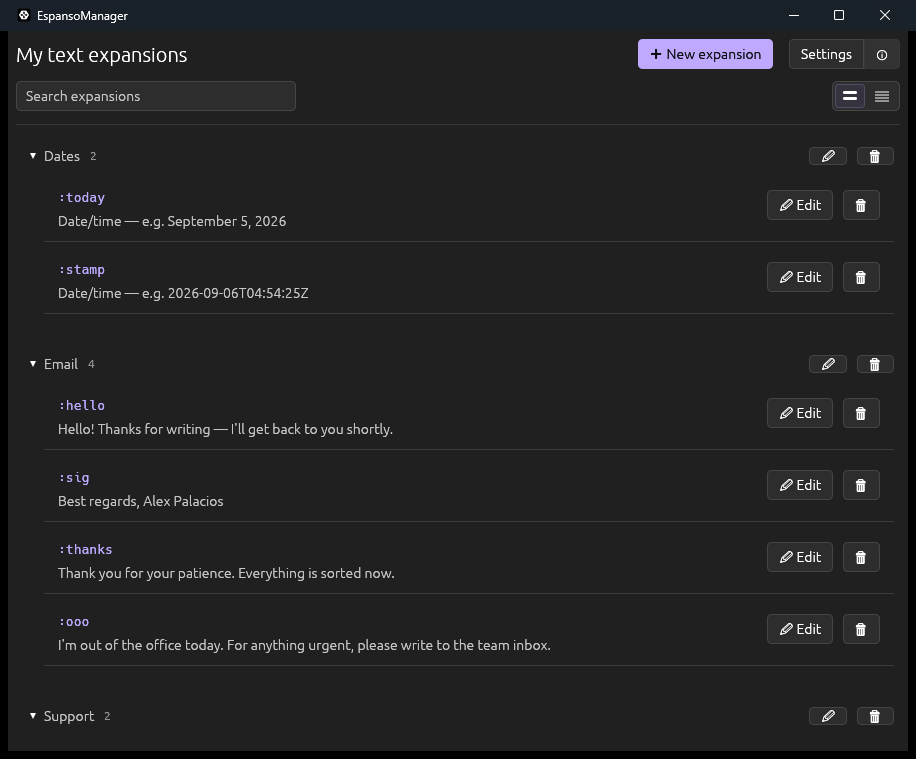
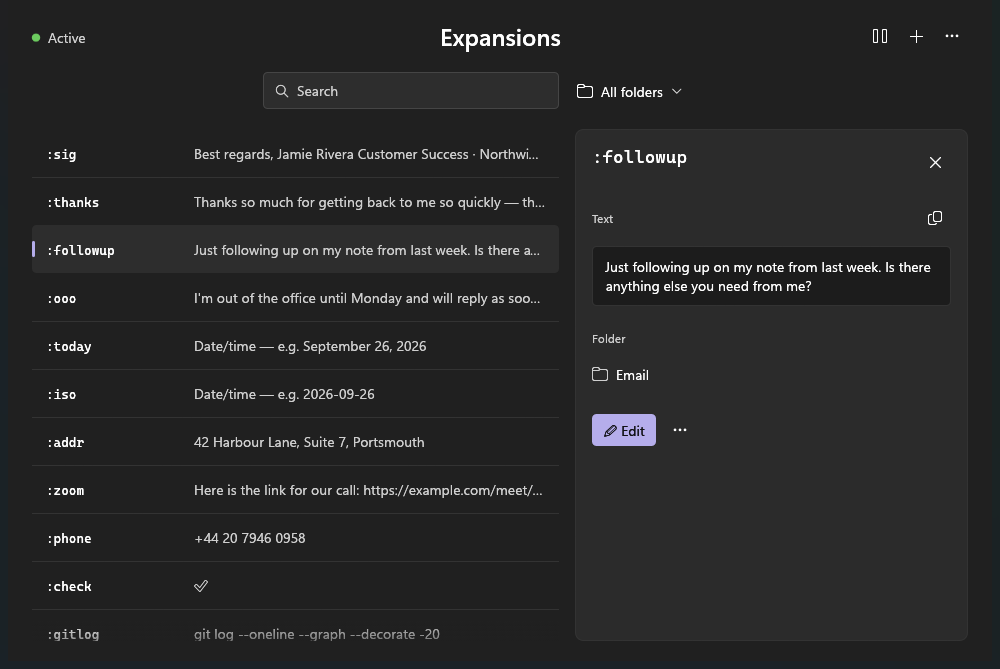
docs: describe 0.0.2 as it shipped
The 0.0.2 changelog still listed designs replaced before publishing: the
darker dark theme (#030303), folder chips in two rows with a "12 more" chip,
baselines for chips and a footer that no longer exist, the numbered editor
and the in-place rows. It now lists only what changed since 0.0.1, and adds
what was missing: the inspector, Select mode, keyboard shortcuts, the
discard question, the app's own icon and contrast themes.

README: new screenshots of the current interface (invented data), feature
table updated, the idle figures marked as measured on 0.0.1, 75 tests.

diff --git a/CHANGELOG.md b/CHANGELOG.md
@@ -5,138 +5,95 @@ was published.
 
 ## 0.0.2 — 2026-09-25
 
+What changed since 0.0.1. Designs that were tried along the way and replaced before publishing
+are not listed.
+
 ### Added
 
 - **Pick the folders when exporting and importing.** Export asks which folders to include;
   import reads the file first and offers the folders that file actually turned out to hold. The
   expansions that belong to no folder are a choice of their own, not a leftover. The question is
   skipped when there is only one folder, because a question with one answer is not a question.
-- **Deleting a folder now asks first**, in the same style as the expansion warning.
+- **Deleting a folder now asks first**, in the same style as the expansion warning, and the
+  folder's page says beside the button that its expansions go with it.
+- **An inspector beside the list.** Choosing a row shows its whole trigger, its text (wrapped,
+  scrollable, with a copy button), its folder, **Edit** and a `…` menu to move or delete it. On
+  a narrow window it takes the place of the list, with **Back**.
+- **Choosing several expansions** is an explicit mode, entered from the `…` menu, or with Ctrl-
+  or Shift-click on a row. Changing folder or search clears the selection and says so.
+- **Keyboard shortcuts.** Ctrl+N new, Ctrl+L or Ctrl+F search, arrows and Enter in the list, F2
+  folder options, Del delete (always asked), Ctrl+S save, Esc backs out one layer at a time.
+  None of them act while text is being typed. They are shown in tooltips, menus and the guide.
+- **The editor asks before throwing away unsaved changes**, and only when there is something to
+  lose.
+- **EspansoManager has its own icon**, in Explorer, on the window and in the notification area.
+  The executable used to have none, and the tray borrowed Espanso's. The tray icon follows the light or dark colour of the taskbar,
+  and paused is a different shape, not only a different colour.
+- **Contrast themes are followed.** With a Windows contrast theme on, the app is drawn in the
+  colours chosen for it in Windows' settings.
 - **Emoji are drawn with the font Windows itself uses** for them, instead of the small one
   bundled with the interface toolkit. `👍` and `💡` used to be an illegible tangle and a bare
   ring; now they read as what they are. They remain single-colour: the toolkit this app draws
   with paints every glyph in one flat colour, so colour emoji are not possible, and the Windows
   colour emoji font would have added 12 MB to the download without changing a single pixel.
-  The app's own small icons — pencil, wastebasket, cross, plus, back arrow — are deliberately
-  drawn from the bundled faces exactly as before, so no button changed shape.
+  The app's own small icons are deliberately not drawn from it, so no button changed shape.
 
 ### Changed
 
-- **Settings is a dialog now** (2026-09-25). It opens in the middle of the window over the dimmed
-  list and cannot be moved; Esc, the cross or a click outside it closes it. It names its five
-  settings and nothing else: the sentence under each one moved to the guide, under a new
-  **Settings** topic, and so did the credit to Espanso's author. The export and import folder
-  picker opens on top of it, and what those actions report is shown inside the dialog. Turning
-  start-with-Windows on or off no longer posts a banner (the switch already says so); a failure
-  still does. On a short window the dialog scrolls under a fixed title, and it always opens at
-  the top. When a note makes the scroll bar appear or go, the contents glide aside for it over
-  half a second instead of jumping.
-- **A quieter interface, with the detail beside the list** (2026-09-25). This supersedes parts of
-  the 2026-09-22 interface described in the next entry:
-  - The library title is centred, with the real state of Espanso (a dot and **Active**,
-    **Paused** or **Not responding**) on its left, and three borderless commands on its right:
-    pause/resume, new, and a `…` menu. The search and an **All folders** menu sit under it, short
-    and centred. The folder rectangles are gone.
+- **A new, quieter interface.** One library with nothing permanently docked beside it:
+  - A centred title, with the real state of Espanso on its left — a dot and **Active**,
+    **Paused** or **Not responding**, which is what Espanso answered, not what the app assumes —
+    and three borderless commands on its right: pause/resume, new, and a `…` menu.
+  - Under it, a short centred search and an **All folders** menu that picks which folder is
+    shown.
   - Rows are the trigger in a monospaced face and a one-line preview, split by faint lines.
-    Choosing one opens an inspector on the right with the whole text (wrapped, scrollable, with
-    a copy button), its folder, **Edit** and a `…` menu for move and delete. On a narrow window
-    the inspector takes the place of the list, with **Back**.
-  - The editor, settings, the folder page, the guide and the welcome screen lost their cards,
-    numbers and subtitles: headings and space do the grouping. The editor asks before throwing
-    away unsaved changes.
-  - The move and export/import pickers are a list of folders with a check, the same lines as the
-    folder menu. A new folder is made with **Create**, not **Save**.
-  - Keyboard: Ctrl+N new, Ctrl+L or Ctrl+F search, arrows and Enter in the list, F2 folder
-    options, Del delete (always asked), Ctrl+S save, Esc backs out one layer at a time. None of
-    them act while text is being typed. Shortcuts are shown in tooltips, menus and the guide.
-  - **Fluid hover in the list.** One soft highlight glides from row to row under the pointer
-    instead of each row lighting up and going dark on its own. It fades in where it first lands
-    and fades out in place when the pointer leaves. The same glide now runs through the rest of the app: the command
-    bar's buttons, every menu, the switches in Settings and the topics of the guide. It never
-    lands on a disabled line, and slides under the chosen segment without covering it. Outlined
-    buttons and chips keep their own hover, because their fill is part of their shape.
-  - **Windows' animation effects switch now applies to the whole app, live.** With it off,
-    nothing travels, slides or fades: the hover is simply on what the pointer is over, the
-    start-up switch jumps, menus open at once and the list jumps to a row instead of scrolling
-    to it. The saved row's tint stays for its two seconds, then goes at once. Changing the switch
-    takes effect immediately, without restarting, the same way a theme change does. The mouse
-    wheel keeps its short smoothing: Windows keeps that under a separate setting of its own.
-  - The status dot sits at the middle of its word, not level with the top of the capitals. The
-    start-up switch reads **Start EspansoManager with Windows**, without "(and Espanso)".
-- **A new interface, from the library to the last dialog** (2026-09-22). One central library
-  with nothing permanently docked beside it:
-  - The title shows what Espanso really answered, not what the app assumes. The pill reads
-    **Active**, **Paused** or **Not responding**. Pause / Resume sits right beside it.
-  - Folders are rectangular filters with their counts. They run from **All** through each
-    folder to **No folder**, and wrap onto more rows instead of scrolling sideways.
-  - Each row reads **When you type → This text appears**. A row opens in place to show the whole
-    trigger, the whole text, its folder and its actions. Closed rows carry no buttons.
-  - Multiple selection is an explicit **Select** mode. **Select all** means the expansions on
-    screen. Changing folder or search clears the selection and says so. The bulk actions stay
-    disabled until something is selected.
-  - The editor is two numbered steps, with a live preview and validation next to the field it
-    concerns. **Save / Cancel** is pinned to the bottom so it never scrolls away. A text draft
-    survives switching to a date and back.
-  - Settings, the quick guide and the welcome screen were redone in the same style. All three
-    themes (light, dark, follow Windows) were checked with equal care.
-
-  Saving and coming back keeps the folder, the search, the scroll position and the open row.
-  The saved row scrolls into view and is briefly tinted.
-
-  This replaces the sidebar layout that reached the local build before it (unpublished). Its
-  sidebar and permanent inspector are gone.
+  - The editor, the folder page, the guide and the welcome screen have no cards, numbers or
+    subtitles: headings and space do the grouping. The editor's **Save / Cancel** is always on
+    screen, and a text draft survives switching to a date and back.
+  - Saving and coming back keeps the folder, the search and the scroll position. The saved row
+    scrolls into view and is briefly tinted.
+- **Settings is a dialog.** It opens in the middle of the window over the dimmed list and cannot
+  be moved; Esc, the cross or a click outside it closes it. It names its five settings and
+  nothing else: the explanations moved to the guide, under a new **Settings** topic, and so did
+  the credit to Espanso's author. What export and import report is shown inside the dialog.
+  Turning start-with-Windows on or off no longer posts a banner (the switch already says so); a
+  failure still does. On a short window the dialog scrolls under a fixed title.
+- **The colours are Windows 11's own**, in light and in dark, and the accent is the one chosen in
+  Windows' settings, in the shade Windows itself uses for that theme.
+- **The title bar uses Mica**, the Windows 11 material that takes a faint tint from the desktop
+  wallpaper. Windows only draws it while the window is active, and a solid-colour desktop gives it
+  nothing to tint with. Versions of Windows older than 11 ignore it.
+- **Fluid hover.** One soft highlight glides from row to row under the pointer instead of each
+  row lighting up and going dark on its own. The same glide runs through the command bar, every
+  menu, the switches in Settings and the topics of the guide. Outlined buttons keep their own
+  hover, because their fill is part of their shape.
+- **Windows' animation effects switch applies to the whole app, live.** With it off, nothing
+  travels, slides or fades, and the change takes effect without restarting. The mouse wheel
+  keeps its short smoothing: Windows keeps that under a separate setting of its own.
 - **Every dialog is the same dialog.** Move, new folder, delete confirmations and the export and
-  import folder pickers share one frame and margin, and one button order: action first, then
-  Cancel, as Windows does it. Their width shrinks with the window. Moving to a folder shows every
-  folder as the same rectangles the library filters with. It used to hide the sixth one behind a
-  scroll bar.
-- **Counts agree with their nouns** in all four languages ("1 expansion", not "1 expansions").
-- **Keyboard focus is visible.** Tab now draws a ring around the focused button, folder, row,
-  switch or segment in both themes. Before, only text boxes showed where the keyboard was.
-- The smallest window is now 620×540 (it was 620×480). With 480 px, a second row of folders
-  pushed the footer off the bottom. At 540, three rows of folders still fit. Anything taller
-  scrolls the whole page instead of cutting it off.
-- **The warning shown before deleting expansions is now drawn inside the app.** It used to be a
+  import folder pickers share one frame, one margin and one button order: action first, then
+  Cancel, as Windows does it. Their width shrinks with the window. The pickers are a list of
+  folders with a check; a new folder is made with **Create**, not **Save**.
+- **The warning shown before deleting expansions is drawn inside the app.** It used to be a
   system dialog, which meant it always looked light even in dark theme and matched nothing else
   on screen. It now follows the theme, lists the expansions **in the same order as the list
   behind it**, folds a long selection into a "Show N more" line instead of running off the edge
   of the window, and hands keyboard focus back where it came from when it closes. There is no
   warning triangle beside the heading, on purpose: Windows 11 does not use one in its own
   dialogs, and the red sentence and the red button already say what kind of question this is.
-- The **Delete** button in that warning is legible in light theme. It used to be nearly
-  invisible.
-- Text being typed into a form survives cancelling that warning.
-- **The accent colour is Windows' own again** (2026-09-25). The new interface had fixed it to a
-  violet, and the code that read the system accent went unused and was removed. It is back: every
-  accent-coloured button, link, chip and ring takes the colour chosen in Windows' settings, in the
-  shade Windows itself uses for that theme.
-- **Darker dark theme.** The background is near black (`#030303`) and cards and controls are
-  `#242424`. The main text is `#E6E6E6` and supporting text is `#C8C8C8`. Hover, pressed and
-  line shades were moved down with them so the steps between them stay the same.
-- **The title bar uses Mica**, the Windows 11 material that takes a faint tint from the desktop
-  wallpaper. Windows only draws it while the window is active, and a solid-colour desktop gives it
-  nothing to tint with, so on such a desktop it looks the same as before. Versions of Windows
-  older than 11 ignore it.
-- **Folders take at most two rows.** Past that, the ones that do not fit wait behind a
-  "**12 more**" chip that opens a list of them with their counts. The folder being viewed always
-  keeps its chip. With thirty folders on the smallest window, the chips used to fill the screen and
-  push the list out of sight. Only folders with a chip can take a dropped expansion; for the rest,
-  there is **Move to folder**.
+  Its **Delete** button is legible in light theme, and text being typed into a form survives
+  cancelling it.
+- **Keyboard focus is visible.** Tab draws a ring around the focused control in both themes.
+  Before, only text boxes showed where the keyboard was.
+- **Counts agree with their nouns** in all four languages ("1 expansion", not "1 expansions").
+- The smallest window is now 620×540 (it was 620×480).
+- The start-up switch reads **Start EspansoManager with Windows**, without "(and Espanso)".
 
 ### Fixed
 
-- **Lines of text of different sizes now share a baseline** instead of being centred on each
-  other (2026-09-25). Folder counts no longer sit higher than the folder name. The
-  Active/Paused word is level with the heading instead of 5 px above it. A closed row's trigger
-  is level with its text. The footer note is level with its links.
-- **"Quick guide", "Back" and the other link-style buttons that start a line** now have their
-  first letter on the page's left edge, like every other line. Before, their invisible button
-  padding put them 14 px further in.
-
 - **Emptying a folder no longer deletes it.** A folder that existed only because of what was in
   it vanished when the last expansion was moved out. Folders like this came from an import or
-  from typing a new name in the editor. The filter then jumped to All without a word. It now
-  stays, empty, like one made with **New folder**.
+  from typing a new name in the editor. It now stays, empty, like one made with **New folder**.
 - **Import no longer counts duplicates as additions.** The folder picker offered "2 will be
   added" when one of them already existed. It now counts only what will really be added. It
   hides folders that would add nothing, and reports what was skipped.
@@ -146,11 +103,10 @@ was published.
   though not on disk, and the draft was lost. Now the editor stays open with the draft intact,
   and the import is undone in the same way.
 - **Hindi buttons were empty boxes.** The Devanagari face was missing from the font family that
-  button labels use. Pause, New expansion, Select, Settings and the rest were illegible. This
-  was already broken in 0.0.1.
-- **The library footer fell off the bottom of the window.** The list height used a guessed header
-  size. It now uses the measured one.
+  button labels use. Pause, New expansion, Settings and the rest were illegible.
 - **Text ran off the right edge** of the welcome screen and the quick guide in narrow windows.
+- **"Back" and the other link-style buttons that start a line** have their first letter on the
+  page's left edge, like every other line. Their invisible padding put them 14 px further in.
 - **A trigger made only of symbols can be created.** `:--`, `:_` and `:—` were refused with
   "the trigger cannot be empty", which was not what had happened: the word box was being read
   as a second prefix, which left no word at all. A word box holding nothing but symbols is now

diff --git a/README.md b/README.md
@@ -60,21 +60,22 @@ second program to go and fetch, and nothing to install — one ZIP, unzip it, op
 |  |  |
 |---|---|
 | ✏ | Create and edit expansions without ever opening a file. |
-| 📁 | Keep them tidy in folders. |
+| 📁 | Keep them tidy in folders, and find any of them as you type. |
+| ⌨ | Work from the keyboard: new, search, the list, delete and save all have a shortcut. |
 | ⏸ | Pause for ten minutes when they are in the way — or until you say otherwise. |
-| 🎨 | Light and dark themes, or follow Windows, accent colour and all. |
+| 🎨 | Look like Windows 11: its own light and dark colours, your accent colour, contrast themes, and Windows' animation switch. |
 | 📅 | Insert today's date in the format you like, without learning any syntax. |
 | 🔔 | Live quietly in the tray, and start with Windows if you want it to. |
 | 🪶 | Stay small while it waits there: about 80 MB of memory, and a tenth of one percent of one CPU core. |
-| 📤 | Export your expansions and send them to a colleague. |
+| 📤 | Export the folders you choose and send them to a colleague. |
 | 🌍 | Speak English, Spanish, Filipino or Hindi. |
 | 💾 | Keep a backup of every save, in case you change your mind. |
 
 There is more than this in there. It is meant to be found by using it.
 
-> 📏 Those two numbers are measured, not estimated: 79.9 MB of working set, and 125–156 ms of
-> CPU per 150 seconds across three consecutive samples with the app hidden in the tray, handle
-> count flat at 333 throughout. Taken on the author's machine, so yours will read differently —
+> 📏 Those two numbers are measured, not estimated, on version 0.0.1: 79.9 MB of working set,
+> and 125–156 ms of CPU per 150 seconds across three consecutive samples with the app hidden in
+> the tray, handle count flat at 333 throughout. Taken on the author's machine, so yours will read differently —
 > but idle is meant to cost nothing, and it is checked rather than assumed.
 
 ---
@@ -154,7 +155,7 @@ executable's own directory, which is the older layout where the two executables 
 side, so dropping a new binary into an existing folder keeps working.
 
 ```sh
-cargo test                            # 53 tests
+cargo test                            # 75 tests
 cargo clippy --release --all-targets
 ```
 
